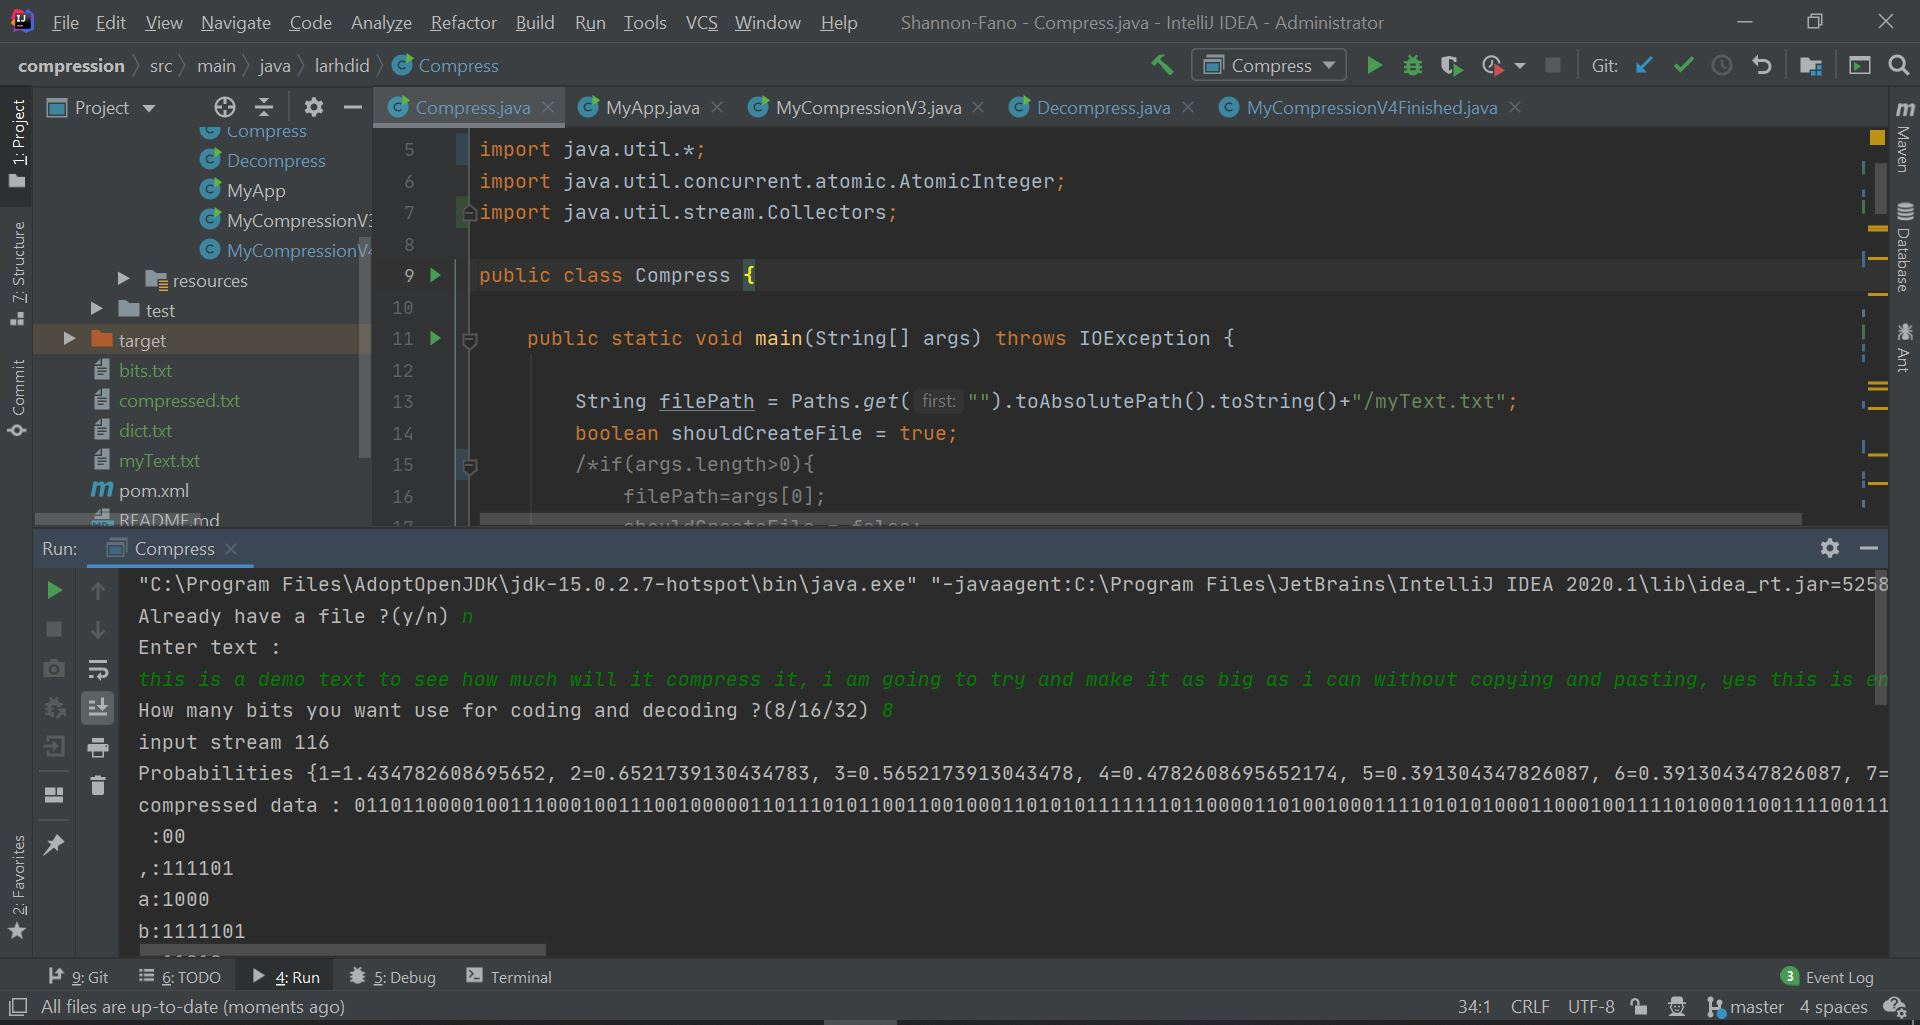
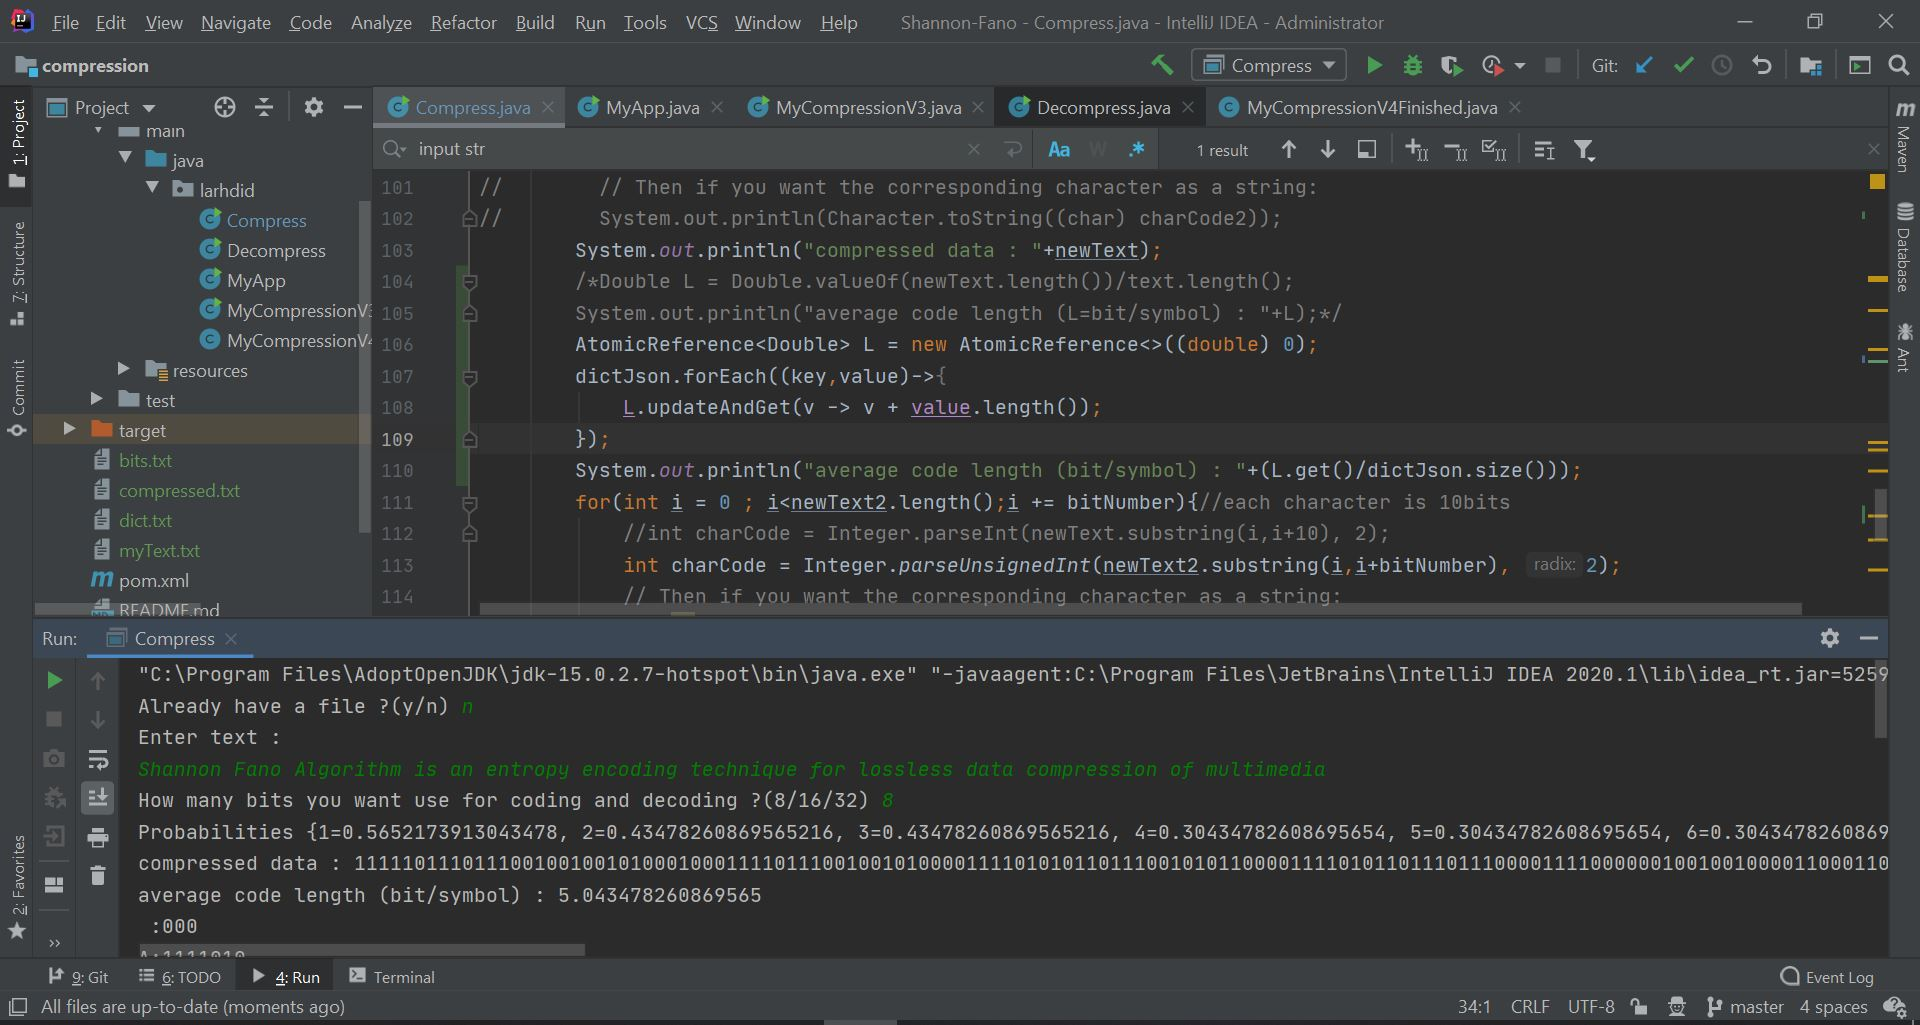
adding the average code length information

diff --git a/src/main/java/larhdid/Compress.java b/src/main/java/larhdid/Compress.java
@@ -4,6 +4,7 @@ import java.io.*;
 import java.nio.file.Paths;
 import java.util.*;
 import java.util.concurrent.atomic.AtomicInteger;
+import java.util.concurrent.atomic.AtomicReference;
 import java.util.stream.Collectors;
 
 public class Compress {
@@ -51,8 +52,8 @@ public class Compress {
             text+=data;
         }
         myReader.close();
-        InputStream inputStream = new FileInputStream(filePath);
-        System.out.println("input stream "+inputStream.read());
+//        InputStream inputStream = new FileInputStream(filePath);
+//        System.out.println("input stream "+inputStream.read());
         MyCompressionV4Finished v4 = new MyCompressionV4Finished();
         for(int i = 0; i<text.length(); i++){
             String key = String.valueOf(text.charAt(i));
@@ -100,6 +101,13 @@ public class Compress {
 //        // Then if you want the corresponding character as a string:
 //        System.out.println(Character.toString((char) charCode2));
         System.out.println("compressed data : "+newText);
+        /*Double L = Double.valueOf(newText.length())/text.length();
+        System.out.println("average code length (L=bit/symbol) : "+L);*/
+        AtomicReference<Double> L = new AtomicReference<>((double) 0);
+        dictJson.forEach((key,value)->{
+            L.updateAndGet(v -> v + value.length());
+        });
+        System.out.println("average code length (bit/symbol) : "+(L.get()/dictJson.size()));
         for(int i = 0 ; i<newText2.length();i += bitNumber){//each character is 10bits
             //int charCode = Integer.parseInt(newText.substring(i,i+10), 2);
             int charCode = Integer.parseUnsignedInt(newText2.substring(i,i+bitNumber), 2);
